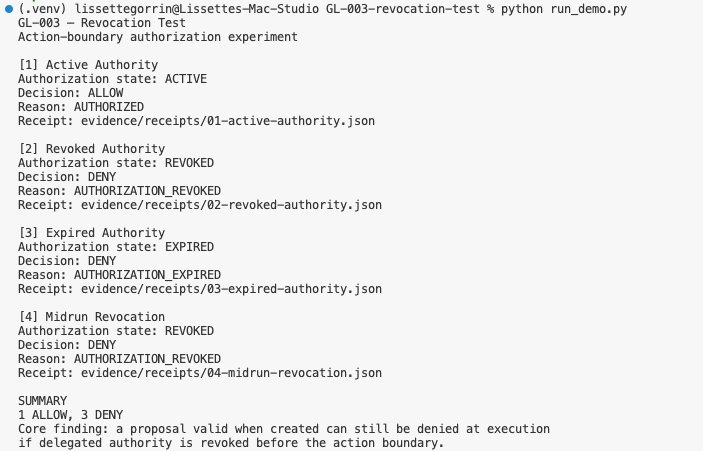
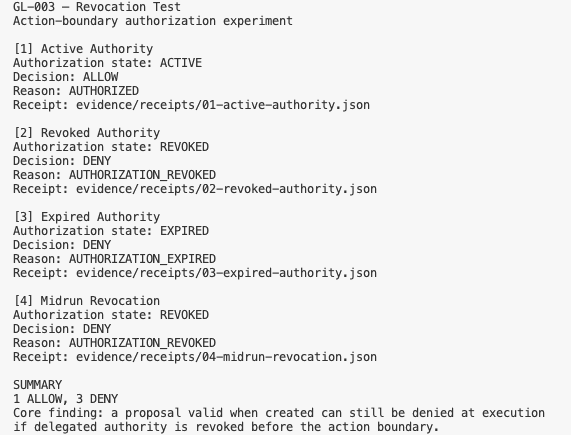
Document fail-closed authorization evidence

Changed region(s): [[0.0, 0.0, 0.8932, 0.8368], [0.0, 0.8667, 0.9527, 1.0]]

diff --git a/docs/architecture.md b/docs/architecture.md
@@ -8,31 +8,41 @@
                        grant / revoke
                               |
                               v
-                    AUTHORIZATION STATE
-                   ACTIVE / REVOKED /
-                        EXPIRED
+                    AUTHORIZATION RECORD
                               |
+                   +----------+----------+
+                   |                     |
+                AVAILABLE             UNAVAILABLE
+                   |                     |
+                   v                     v
+           AUTHORIZATION STATE       FAIL CLOSED
+        ACTIVE / REVOKED / EXPIRED       |
+                   |                     |
+                   +----------+----------+
                               |
-                +-------------+-------------+
-                |                           |
-                v                           v
-             AI AGENT                POLICY CHECKPOINT
-                |                           ^
-                | proposes                  |
-                v                           |
-          ACTION PROPOSAL ------------------+
-                                            |
-                                      ALLOW / DENY
-                                            |
-                               +------------+------------+
-                               |                         |
-                               v                         v
-                            EXECUTE                     STOP
-                               |                         |
-                               +------------+------------+
-                                            |
-                                            v
-                                     DECISION RECEIPT
+                              v
+                      POLICY CHECKPOINT
+                              ^
+                              |
+                         AI AGENT
+                              |
+                           proposes
+                              |
+                              v
+                       ACTION PROPOSAL
+                              |
+                              v
+                         ALLOW / DENY
+                              |
+                    +---------+---------+
+                    |                   |
+                    v                   v
+                 EXECUTE               STOP
+                    |                   |
+                    +---------+---------+
+                              |
+                              v
+                       DECISION RECEIPT
 ```
 
 ## Key Separation
@@ -50,6 +60,20 @@ AUTHORITY AT SESSION START
 does not equal
 AUTHORITY AT ACTION TIME
 ```
+
+GL-003 also distinguishes:
+
+```text
+AUTHORIZATION STATE
+from
+AUTHORIZATION AVAILABILITY
+```
+
+`ACTIVE`, `REVOKED`, and `EXPIRED` are lifecycle states of an authorization that can be evaluated.
+
+`UNAVAILABLE` is not a fourth lifecycle state. It means the policy layer cannot establish a verifiable authorization record at the action boundary.
+
+In that condition, the policy fails closed.
 
 ## Mid-Run Revocation Sequence
 
@@ -71,10 +95,80 @@ DENY
 AUTHORIZATION_REVOKED
 ```
 
-## Architectural Principle
+## Authorization-Unavailable Sequence
+
+```text
+10:30
+Agent creates proposal
+
+10:31
+Action reaches policy checkpoint
+
+10:31
+No verifiable authorization is available
+
+10:31
+DENY
+AUTHORIZATION_UNAVAILABLE
+
+10:31
+Decision receipt records:
+authorization_id = null
+authorization_state = null
+```
+
+## Policy Boundary
 
 The agent may propose an action.
 
 The agent does not decide whether its own authority remains valid.
 
-That decision belongs to an independent policy boundary using current authorization state.
+That decision belongs to an independent policy boundary evaluated at action time.
+
+The policy distinguishes between:
+
+```text
+KNOWN AUTHORIZATION
+        |
+        +-- ACTIVE  -> ALLOW when other policy checks pass
+        +-- REVOKED -> DENY
+        +-- EXPIRED -> DENY
+
+NO VERIFIABLE AUTHORIZATION
+        |
+        +-- DENY
+            AUTHORIZATION_UNAVAILABLE
+```
+
+## Audit Behavior
+
+A fail-closed decision should still leave evidence.
+
+When authorization is unavailable, GL-003 does not fabricate an authorization identifier or lifecycle state.
+
+Instead, the receipt records:
+
+```json
+{
+  "authorization_id": null,
+  "decision": "deny",
+  "reason_code": "AUTHORIZATION_UNAVAILABLE",
+  "authorization_state": null
+}
+```
+
+This preserves the distinction between:
+
+- a known revoked authorization;
+- a known expired authorization;
+- and an authorization whose current validity cannot be established.
+
+## Architectural Principle
+
+**Authority must be valid and verifiable at the consequential action boundary.**
+
+A previously valid proposal does not preserve authority.
+
+If authority has been revoked or expired, the action is denied.
+
+If current authority cannot be established, the system fails closed and preserves an auditable denial reason.

diff --git a/README.md b/README.md
@@ -4,7 +4,7 @@
 
 [![CI](https://github.com/Gradensal/gl-003-revocation-test/actions/workflows/ci.yml/badge.svg?branch=main&event=push)](https://github.com/Gradensal/gl-003-revocation-test/actions/workflows/ci.yml?query=branch%3Amain)
 ![Python](https://img.shields.io/badge/Python-3.12-blue)
-![Tests](https://img.shields.io/badge/tests-9%20passing-brightgreen)
+![Tests](https://img.shields.io/badge/tests-11%20passing-brightgreen)
 ![Status](https://img.shields.io/badge/status-research%20prototype-orange)
 [![License: MIT](https://img.shields.io/badge/License-MIT-yellow.svg)](LICENSE)
 
@@ -26,7 +26,7 @@ The experiment tests whether authorization should be treated as a one-time sessi
 
 ## Core Finding
 
-**Authorization should be re-evaluated at the consequential action boundary rather than assumed to remain valid for the lifetime of an agent session.**
+**Authorization should be re-evaluated at the consequential action boundary rather than assumed to remain valid for the lifetime of an agent session. If current authority cannot be established, execution should fail closed.**
 
 GL-003 demonstrates a simple but important sequence:
 
@@ -93,7 +93,7 @@ GL-003 models an alternative:
 
 ## Controlled Experiment
 
-The demonstration exercises four authorization scenarios.
+The demonstration exercises five authorization scenarios.
 
 | Scenario | State at Action Boundary | Decision |
 |---|---|---|
@@ -101,6 +101,7 @@ The demonstration exercises four authorization scenarios.
 | Revoked authority | `REVOKED` | `DENY` |
 | Expired authority | `EXPIRED` | `DENY` |
 | Proposal created before revocation | `REVOKED` at execution | `DENY` |
+| Authorization unavailable | no verifiable state | `DENY` |
 
 The fourth scenario is the central experiment.
 
@@ -146,13 +147,20 @@ Authorization state: REVOKED
 Decision: DENY
 Reason: AUTHORIZATION_REVOKED
 
+[5] Authorization Unavailable
+Authorization state: UNAVAILABLE
+Decision: DENY
+Reason: AUTHORIZATION_UNAVAILABLE
+
 SUMMARY
-1 ALLOW, 3 DENY
+1 ALLOW, 4 DENY
 ```
 
-The experiment therefore demonstrates:
+The experiment therefore demonstrates two related controls:
 
 > **A proposal valid when created can still be denied at execution if delegated authority is revoked before the action boundary.**
+
+> **If current authority cannot be established at the action boundary, the policy fails closed and denies execution.**
 
 Machine-readable decision receipts are written to:
 
@@ -214,7 +222,8 @@ evidence/
     ├── 01-active-authority.json
     ├── 02-revoked-authority.json
     ├── 03-expired-authority.json
-    └── 04-midrun-revocation.json
+    ├── 04-midrun-revocation.json
+    └── 05-authorization-unavailable.json
 ```
 
 These receipts provide inspectable evidence of:
@@ -234,7 +243,7 @@ evidence/test-results/
 
 ## Automated Verification
 
-The project currently contains **9 passing automated tests** covering:
+The project currently contains **11 passing automated tests** covering:
 
 - active authorization;
 - revoked authorization;
@@ -244,7 +253,9 @@ The project currently contains **9 passing automated tests** covering:
 - exact expiration boundary;
 - double-revocation protection;
 - revocation after expiration;
-- decision receipt serialization.
+- decision receipt serialization;
+- fail-closed behavior when authorization is unavailable;
+- auditable receipt generation when authorization cannot be established.
 
 Run:
 
@@ -255,8 +266,8 @@ pytest
 Expected result:
 
 ```text
-......... [100%]
-9 passed
+........... [100%]
+11 passed
 ```
 
 Code quality is checked with Ruff:
@@ -288,7 +299,7 @@ INSTALL DEPENDENCIES
         ↓
 RUN RUFF
         ↓
-RUN 9 AUTOMATED TESTS
+RUN 11 AUTOMATED TESTS
         ↓
 RUN REVOCATION EXPERIMENT
 ```
@@ -352,7 +363,7 @@ Produces machine-readable evidence for authorization decisions.
 
 ### `run_demo.py`
 
-Runs the four controlled scenarios and writes their decision receipts.
+Runs the five controlled scenarios and writes their decision receipts.
 
 ### `tests/`
 
@@ -422,6 +433,12 @@ evidence/receipts/
 ### Controlled Experiment Summary
 
 ![GL-003 controlled demonstration summary](evidence/screenshots/04-demo-summary.png)
+
+### Fail-Closed Authorization Check
+
+![GL-003 fail-closed authorization-unavailable demonstration](evidence/screenshots/05-fail-closed-authorization-demo.png)
+
+This latest experiment demonstrates that the policy denies execution when current authority cannot be established, while preserving an auditable `AUTHORIZATION_UNAVAILABLE` reason.
 
 The screenshots complement the machine-readable receipts and reproducible test evidence stored in the repository.
 
@@ -523,11 +540,11 @@ Current verified state:
 
 ```text
 Python 3.12
-9 automated tests passing
+11 automated tests passing
 Ruff quality checks passing
 GitHub Actions CI passing
-4 controlled authorization scenarios
-4 machine-readable decision receipts
+5 controlled authorization scenarios
+5 machine-readable decision receipts
 Reproducible mid-run revocation experiment
 ```
 
